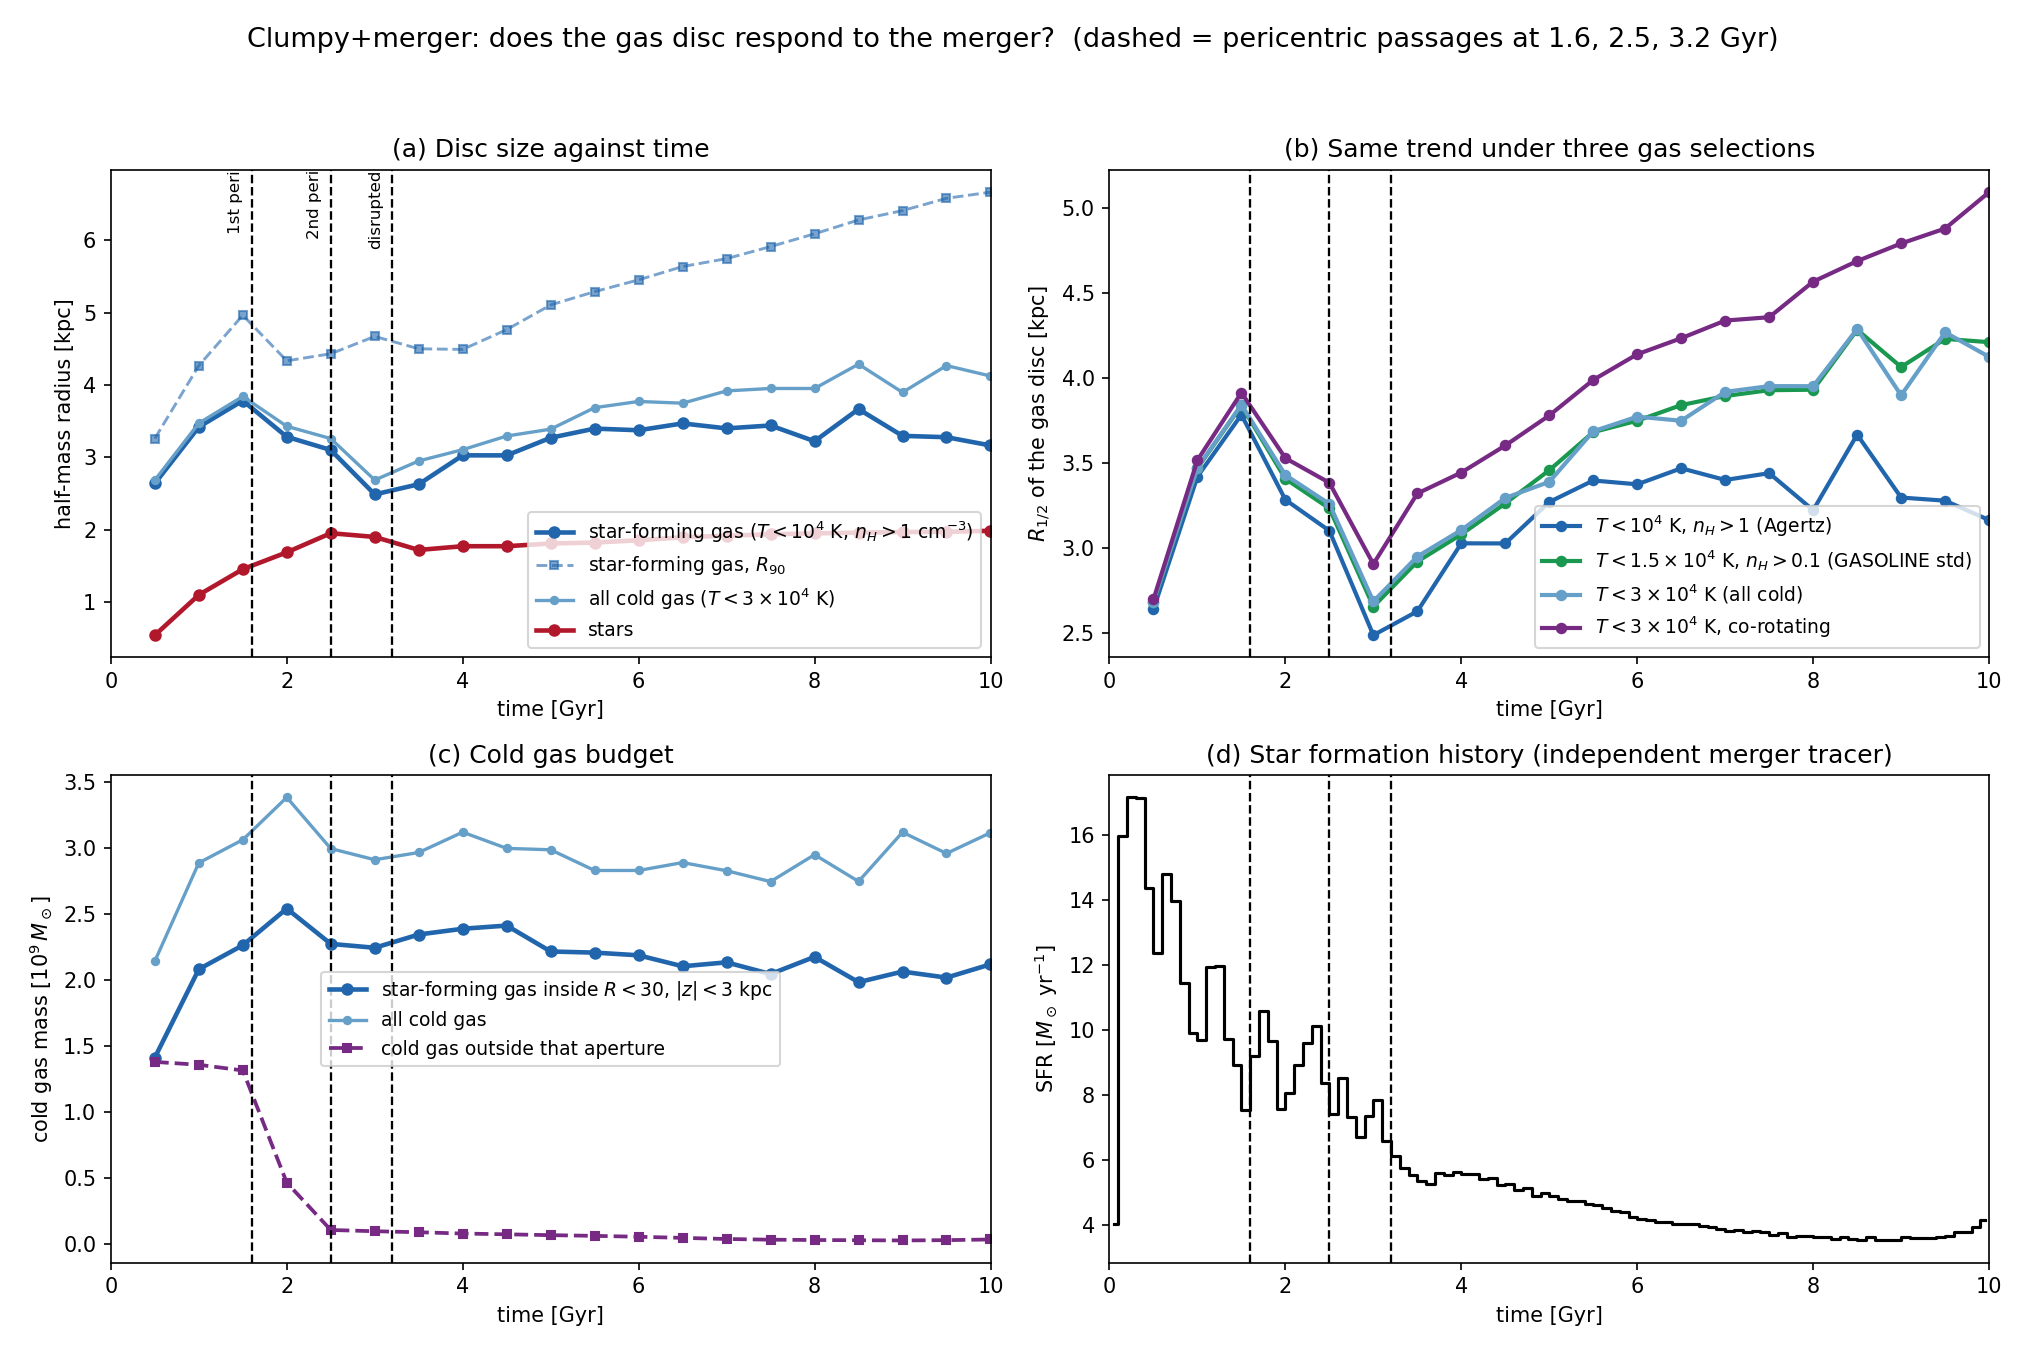
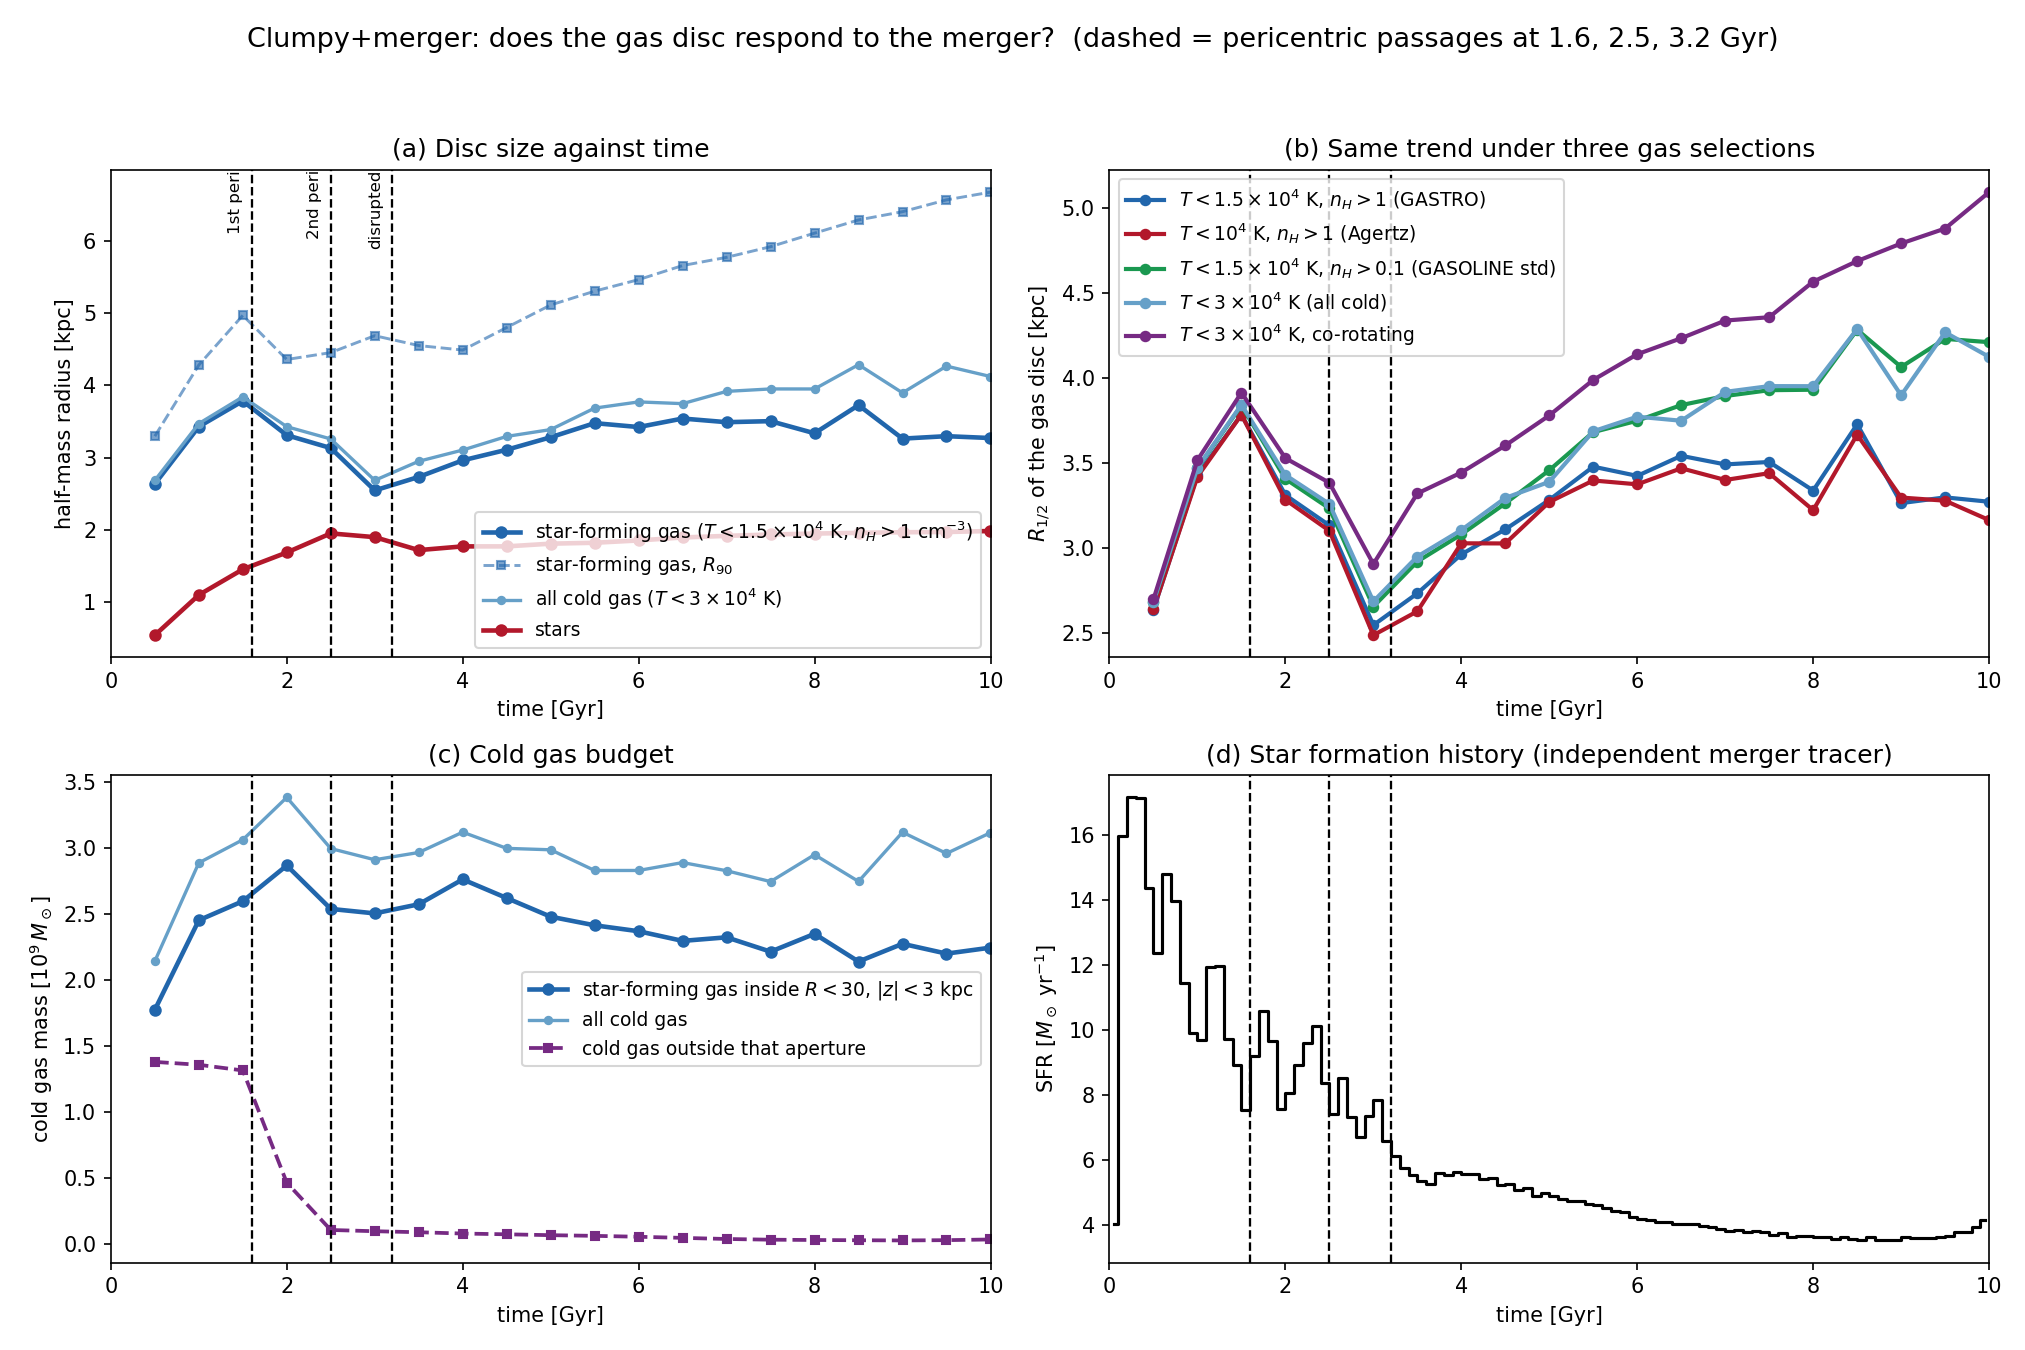
Take the star-formation criteria from the papers, not from the data
Both thresholds are now cited rather than inferred, and one of my inferred
choices was wrong.

GASTRO (Amarante et al. 2022, ApJ 937, 12): "star formation begins wherever the
temperature drops below 15,000 K and the density exceeds 1 cm^-3 in a convergent
flow". I had bracketed this with T<1e4 & n>1 (Agertz) and T<1.5e4 & n>0.1
(GASOLINE standard); the true criterion is the other combination of those two
numbers. The gastro sweep now uses it, keeping both earlier guesses in panel (b)
as checks -- they agree to a few per cent. The convergent-flow condition needs
div(v), which the snapshots do not carry, so it is omitted and the selection is
marginally more inclusive than the code's.

Auriga (Grand et al. 2017, MNRAS 467, 179): the threshold is a hydrogen number
density n = 0.13 cm^-3, with a 2.2 Gyr star formation timescale and the
Springel & Hernquist effective equation of state. My empirical estimate from the
minimum density of SF-flagged cells was 0.107 cm^-3, ~20% lower, most likely
because it assumed a fixed X_H = 0.76 rather than each cell's own hydrogen
fraction. The published value is now the one quoted; the curve itself is
unchanged, since it uses the code's own StarFormationRate flag.

Two further paper values check out against the data: GASTRO's gas particle mass
of 1.4e5 Msol (measured median 1.394e5) and the FB20 = 20% of 1e51 erg feedback
that identifies our file as the clump-forming model.
[…]

diff --git a/gastro/ana_gas_disc.py b/gastro/ana_gas_disc.py
@@ -38,13 +38,12 @@ fig, axes = plt.subplots(2, 2, figsize=(13.5, 9))
 
 # (a) the headline measurement -------------------------------------------------
 ax = axes[0, 0]
-# Primary = star-forming gas on the VINTERGATAN criterion (Agertz et al. 2021),
-# T < 1e4 K and n_H > 1 cm^-3.  This gas reaches n_H ~ 80 cm^-3 here so the cut
-# is well resolved; the same cut is NOT transferable to Auriga, whose SF gas sits
-# at n_H ~ 0.1-0.5 on the Springel-Hernquist effective EOS.
-ax.plot(t, d['rhalf_agertz'], 'o-', color=CG, lw=2.2, ms=5,
-        label=r'star-forming gas ($T<10^4$ K, $n_H>1$ cm$^{-3}$)')
-ax.plot(t, d['r90_agertz'], 's--', color=CG, lw=1.4, ms=4, alpha=.6, label='star-forming gas, $R_{90}$')
+# Primary = star-forming gas on GASTRO's own published criterion (Amarante et al.
+# 2022): T < 1.5e4 K and n_H > 1 cm^-3.  That threshold is eight times Auriga's
+# (0.13 cm^-3), which is why the two simulations cannot share a cut.
+ax.plot(t, d['rhalf_sf'], 'o-', color=CG, lw=2.2, ms=5,
+        label=r'star-forming gas ($T<1.5\times10^4$ K, $n_H>1$ cm$^{-3}$)')
+ax.plot(t, d['r90_sf'], 's--', color=CG, lw=1.4, ms=4, alpha=.6, label='star-forming gas, $R_{90}$')
 ax.plot(t, d['rhalf_cold'], 'o-', color='#66a0c8', lw=1.6, ms=3.5,
         label=r'all cold gas ($T<3\times10^4$ K)')
 ax.plot(t, d['rhalf_star'], 'o-', color=CS, lw=2.2, ms=5, label='stars')
@@ -55,7 +54,8 @@ ax.legend(fontsize=9, loc='lower right')
 
 # (b) robustness ---------------------------------------------------------------
 ax = axes[0, 1]
-for k, lab, c in [('rhalf_agertz', r'$T<10^4$ K, $n_H>1$ (Agertz)', CG),
+for k, lab, c in [('rhalf_sf', r'$T<1.5\times10^4$ K, $n_H>1$ (GASTRO)', CG),
+                  ('rhalf_agertz', r'$T<10^4$ K, $n_H>1$ (Agertz)', '#b2182b'),
                   ('rhalf_gasoline', r'$T<1.5\times10^4$ K, $n_H>0.1$ (GASOLINE std)', '#1a9850'),
                   ('rhalf_cold', r'$T<3\times10^4$ K (all cold)', '#66a0c8'),
                   ('rhalf_corot', r'$T<3\times10^4$ K, co-rotating', '#762a83')]:
@@ -67,7 +67,7 @@ ax.legend(fontsize=9)
 
 # (c) gas budget ---------------------------------------------------------------
 ax = axes[1, 0]
-ax.plot(t, d['m_agertz'] / 1e9, 'o-', color=CG, lw=2.2, ms=5,
+ax.plot(t, d['m_sf'] / 1e9, 'o-', color=CG, lw=2.2, ms=5,
         label=r'star-forming gas inside $R<30$, $|z|<3$ kpc')
 ax.plot(t, d['m_cold'] / 1e9, 'o-', color='#66a0c8', lw=1.6, ms=3.5, label='all cold gas')
 ax.plot(t, d['m_cold_outside'] / 1e9, 's--', color='#762a83', lw=1.8, ms=4,
@@ -95,16 +95,16 @@ fig.savefig(out, dpi=150)
 print('  t   R_half(SF) R_half(cold) R_half(*)  M_SF[1e9] M_cold[1e9]')
 for i in range(len(t)):
     print('  %4.1f %10.2f %11.2f %10.2f %10.3f %11.3f'%(
-        t[i], d['rhalf_agertz'][i], d['rhalf_cold'][i], d['rhalf_star'][i],
-        d['m_agertz'][i]/1e9, d['m_cold'][i]/1e9))
+        t[i], d['rhalf_sf'][i], d['rhalf_cold'][i], d['rhalf_star'][i],
+        d['m_sf'][i]/1e9, d['m_cold'][i]/1e9))
 pre = (t >= 1.0) & (t < 1.6)
 during = (t >= 1.6) & (t <= 3.2)
 post = (t > 3.2) & (t <= 5.0)
 late = t > 5.0
 for lab, m in [('pre-merger  (1.0-1.6)', pre), ('during      (1.6-3.2)', during),
                ('just after  (3.2-5.0)', post), ('late        (>5)     ', late)]:
-    print(f'{lab}: R_half(SF) = {np.nanmean(d["rhalf_agertz"][m]):5.2f} kpc, '
+    print(f'{lab}: R_half(SF) = {np.nanmean(d["rhalf_sf"][m]):5.2f} kpc, '
           f'R_half(cold) = {np.nanmean(d["rhalf_cold"][m]):5.2f}, '
-          f'M_SF = {np.nanmean(d["m_agertz"][m])/1e9:5.2f}e9, '
+          f'M_SF = {np.nanmean(d["m_sf"][m])/1e9:5.2f}e9, '
           f'SFR = {np.nanmean(d["sfr"][(e[:-1] >= t[m].min() - .25) & (e[:-1] <= t[m].max())]):5.2f}')
 print('saved', out)

diff --git a/gastro/prep_gas_disc.py b/gastro/prep_gas_disc.py
@@ -32,13 +32,16 @@ import gastro_config as G
 MODEL_DIR = G.HERE + '/jrun003.dwarfM06XY138Z37Vxy20FB20'
 NAME = 'dwarfM06XY138Z37Vxy20FB20'
 T_COLD, T_COOL = 3e4, 1e4
-# Star-formation criteria.  The run's own .param is not available, so GASOLINE's
-# thresholds cannot be read off directly; these are the two standard choices and
-# they bracket it.  AGERTZ is the VINTERGATAN definition (Agertz et al. 2021,
-# their Fig. 6): T < 1e4 K and n_H > 1 cm^-3.  GASOLINE_STD is the code's usual
-# pair, T < 1.5e4 K and n_H > 0.1 cm^-3.  The gas here reaches n_H ~ 80 cm^-3, so
-# both are well resolved -- unlike Auriga, where star-forming gas sits at
-# n_H ~ 0.1-0.5 and an n > 1 cut would select only the nucleus.
+# Star-formation criterion, taken from the paper rather than guessed at:
+# Amarante et al. (2022), GASTRO Library I (ApJ 937, 12) -- "star formation
+# begins wherever the temperature drops below 15,000 K and the density exceeds
+# 1 cm^-3 in a convergent flow".  The convergent-flow condition needs div(v),
+# which the snapshot does not carry, so it is omitted; that makes the selection
+# marginally more inclusive than the code's own.
+# The two earlier bracketing guesses are kept as robustness checks: AGERTZ is the
+# VINTERGATAN cut (Agertz et al. 2021, Fig. 6), T < 1e4 K and n_H > 1; GASOLINE
+# is T < 1.5e4 K with the looser n_H > 0.1.
+T_SF, N_SF = 1.5e4, 1.0
 T_AGERTZ, N_AGERTZ = 1e4, 1.0
 T_GASOLINE, N_GASOLINE = 1.5e4, 0.1
 MSUN, KPC, XH, MP = 1.989e33, 3.0857e21, 0.76, 1.6726219e-24
@@ -61,6 +64,7 @@ files = [x for x in files if not any(k in x for k in ('MassFrac', 'iord', 'timef
 rec = {k: [] for k in ('time', 'rhalf_cold', 'rhalf_cool', 'rhalf_corot', 'rhalf_star',
                        'r90_cold', 'm_cold', 'm_cool', 'm_star', 'm_cold_outside',
                        'vphi_cold', 'zabs_cold',
+                       'rhalf_sf', 'm_sf', 'r90_sf',
                        'rhalf_agertz', 'm_agertz', 'r90_agertz',
                        'rhalf_gasoline', 'm_gasoline')}
 for path in files:
@@ -94,6 +98,7 @@ for path in files:
     cold = ap & (T < T_COLD)
     cool = ap & (T < T_COOL)
     corot = cold & (vphi > VPHI_COROT)
+    sfsel = ap & (T < T_SF) & (nH > N_SF)
     agertz = ap & (T < T_AGERTZ) & (nH > N_AGERTZ)
     gasoline = ap & (T < T_GASOLINE) & (nH > N_GASOLINE)
     star = (Rs < RMAX) & (np.abs(zs) < ZMAX)
@@ -109,6 +114,9 @@ for path in files:
     rec['m_star'].append(sm[star].sum())
     rec['m_cold_outside'].append(gm[(T < T_COLD) & ~ap].sum())
     rec['vphi_cold'].append(float(np.median(vphi[cold])) if cold.sum() > 20 else np.nan)
+    rec['rhalf_sf'].append(half_mass(Rg[sfsel], gm[sfsel]))
+    rec['r90_sf'].append(half_mass(Rg[sfsel], gm[sfsel], .9))
+    rec['m_sf'].append(gm[sfsel].sum())
     rec['rhalf_agertz'].append(half_mass(Rg[agertz], gm[agertz]))
     rec['r90_agertz'].append(half_mass(Rg[agertz], gm[agertz], .9))
     rec['m_agertz'].append(gm[agertz].sum())
@@ -116,8 +124,8 @@ for path in files:
     rec['m_gasoline'].append(gm[gasoline].sum())
     rec['zabs_cold'].append(float(np.median(np.abs(zg[cold]))) if cold.sum() > 20 else np.nan)
     print(f"  t={rec['time'][-1]:5.2f}  R_half(cold)={rec['rhalf_cold'][-1]:6.2f} kpc  "
-          f"R_half(SF,Agertz)={rec['rhalf_agertz'][-1]:6.2f}  "
-          f"M_SF={rec['m_agertz'][-1]:.2e}", flush=True)
+          f"R_half(SF)={rec['rhalf_sf'][-1]:6.2f}  "
+          f"M_SF={rec['m_sf'][-1]:.2e}", flush=True)
     del f
 
 # Star formation history, straight from the birth times in the final snapshot.

diff --git a/auriga/ana_gas_disc_au18.py b/auriga/ana_gas_disc_au18.py
@@ -35,13 +35,17 @@ fig, axes = plt.subplots(2, 2, figsize=(13.5, 9))
 
 ax = axes[0, 0]
 # Primary = star-forming gas, using Auriga's OWN criterion: the code's
-# StarFormationRate flag, which corresponds to a measured density threshold of
-# n_H = 0.107 cm^-3 (published value 0.11-0.13).  A fixed (T, n) cut cannot be
-# transferred here from another code: Auriga's SF gas sits at n_H ~ 0.1-0.5
-# cm^-3, so the VINTERGATAN criterion n_H > 1 would select only the nucleus
+# StarFormationRate flag.  Grand et al. (2017) give the threshold as a hydrogen
+# number density n_H = 0.13 cm^-3, with a 2.2 Gyr star formation timescale and
+# the Springel & Hernquist effective equation of state; measuring the minimum
+# density of SF-flagged cells here returns 0.107 cm^-3, ~20% lower, consistent
+# once the fixed X_H = 0.76 assumed in that estimate is allowed for.
+# A fixed (T, n) cut cannot be carried over from another code.  GASTRO and
+# VINTERGATAN both require n > 1 cm^-3, eight times Auriga's threshold, and
+# Auriga's SF gas sits at n_H ~ 0.1-0.5, so n > 1 selects only the nucleus here
 # (R_half = 0.73 kpc at z=0).  The full gas disc is kept as a second curve.
 ax.plot(t, d['rhalf_sf'], 'o-', color=CG, lw=2.2, ms=4,
-        label='star-forming gas (Auriga criterion, $n_H>0.107$)')
+        label=r'star-forming gas (Auriga criterion, $n_H>0.13$ cm$^{-3}$)')
 ax.plot(t, d['r90_sf'], 's--', color=CG, lw=1.1, ms=2.5, alpha=.6, label='star-forming gas, $R_{90}$')
 ax.plot(t, d['rhalf_coldsf'], 'o-', color='#66a0c8', lw=1.6, ms=3, label='all disc gas (cold or SF)')
 ax.plot(t, d['rhalf_star'], 'o-', color=CS, lw=2.2, ms=4, label='stars')
